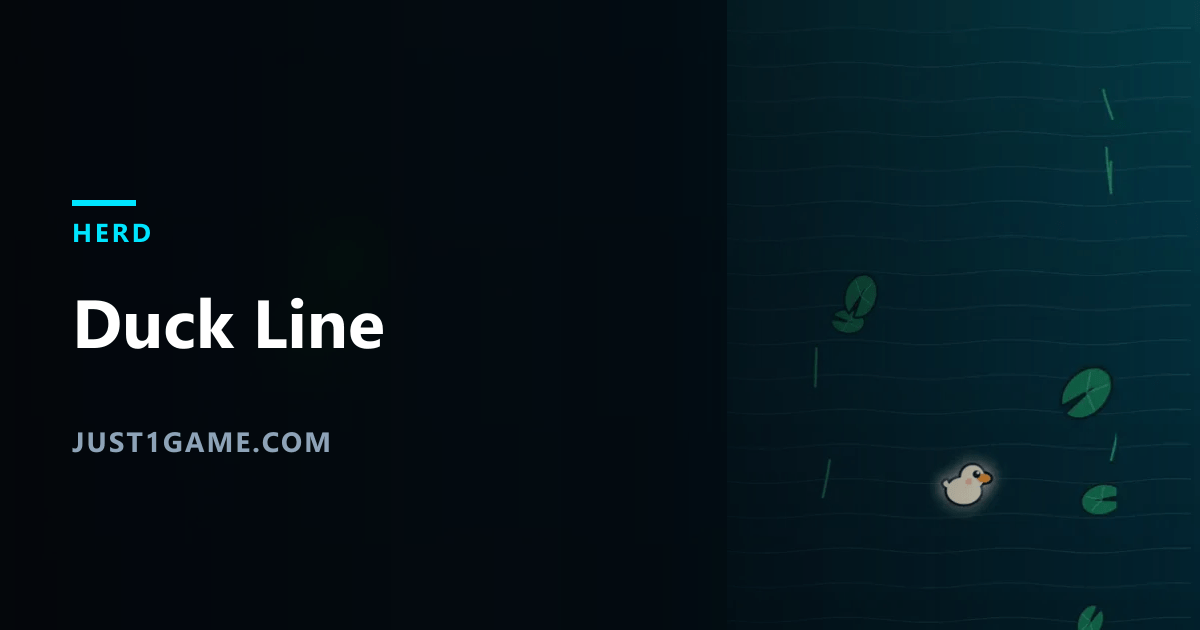
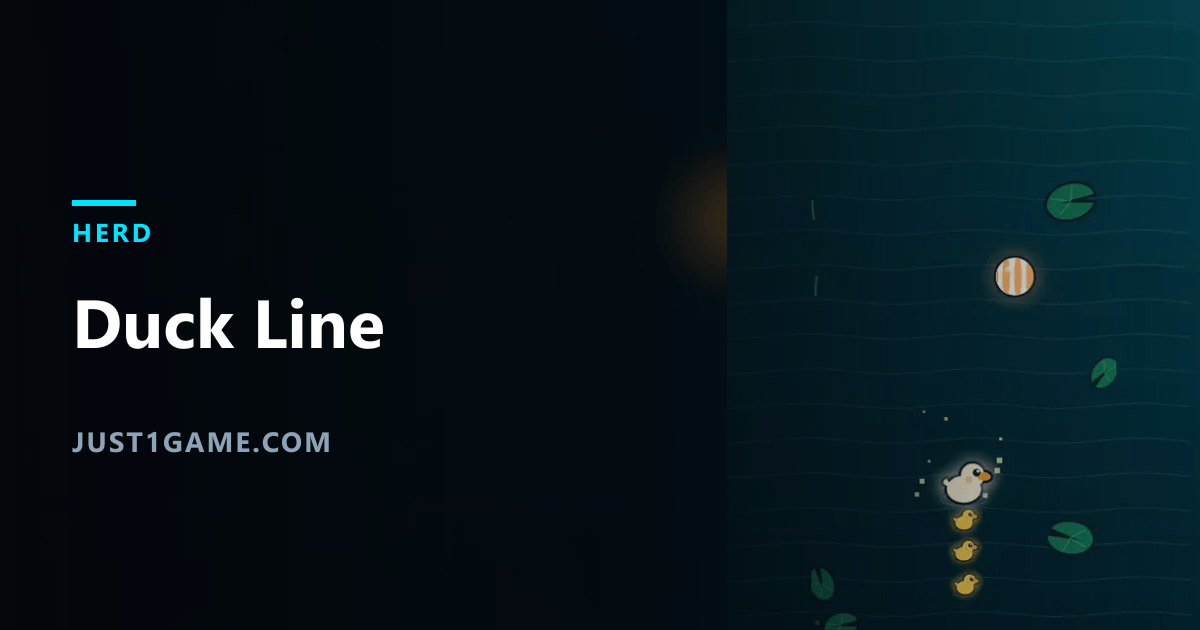
fix: let a game say when its thumbnail is worth taking
The capture picks the earliest frame that differs enough from the title, which
keeps game-over out of the shot. For Duck Line that rule fired at 900ms, when
the water is already moving but the mother is still alone — so the card and
the thumbnail showed a game with no line in it, which is the entire game.

Waiting longer is not a general answer either: pulse-lock captured at 1800ms
put a red MISSED across the cover, because failure feedback piles up when
nobody is playing. The right moment is a property of the game, so games.json
carries captureFromMs and the earliest-change rule still runs after it.

Duck Line now captures at 7000ms and the card shows three ducklings in tow.

diff --git a/tools/shoot.js b/tools/shoot.js
@@ -20,16 +20,29 @@ const HEIGHT = 640;
 // 600x800 = 0.75다. 밴드 양옆은 게임 자신의 풀블리드 배경이 채우므로 합성이 필요 없다.
 const VIEWPORT = { width: 600, height: 838 };
 
-// 캡처 시점 후보(시작 트리거 이후 경과 시간).
-// 이르면 타이틀, 늦으면 게임오버가 찍히므로 촘촘히 여러 장 확보한다.
+/* 캡처 시점 후보(시작 트리거 이후 경과 시간).
+   이르면 타이틀, 늦으면 게임오버가 찍히므로 촘촘히 여러 장 확보하고,
+   '타이틀과 처음으로 충분히 달라진' 가장 이른 프레임을 고른다.
+
+   ⚠ 그 규칙이 어떤 게임에는 너무 이르다. duck-line은 900ms에 이미 물이 흐르므로
+   조건을 통과하지만, 그 순간 엄마는 혼자다 — 이 게임의 전부인 '줄'이 없는 그림이
+   OG 카드와 썸네일에 그대로 박혔다. 반대로 pulse-lock은 1800ms에 찍었더니 빨간
+   MISSED가 화면을 덮었다(아무도 조작하지 않으면 실패 피드백이 쌓인다).
+
+   그래서 시점을 게임이 스스로 밝히게 한다: games.json 의 captureFromMs 가 있으면
+   그 뒤부터 표본을 뜬다. '가장 이른 변화 프레임' 규칙은 그대로라 게임오버는 여전히 피한다. */
 const CAPTURE_AT_MS = [900, 1500, 2200, 3000, 3800];
+function captureTimes(fromMs) {
+  if (!fromMs) return CAPTURE_AT_MS;
+  return CAPTURE_AT_MS.map((t, i) => fromMs + i * 700);
+}
 
 // 타이틀 대비 이 정도는 달라져야 "게임이 시작됐다"로 본다 (0~255 평균 절대차).
 const CHANGED_THRESHOLD = 12;
 
 // 타이틀 화면을 기준선으로 삼고, 거기서 처음으로 충분히 달라진 프레임을 고른다.
 // 게임오버는 플레이보다 뒤에 오므로 "가장 이른 변화 프레임"을 잡으면 자연히 배제된다.
-async function pickPlayFrame(page, target, baseline) {
+async function pickPlayFrame(page, target, baseline, fromMs) {
   let fallback = null;
   let fallbackDiff = -1;
   let prev = 0;
@@ -44,7 +57,7 @@ async function pickPlayFrame(page, target, baseline) {
     async () => { await clickStartButton(page); }
   ];
 
-  for (const at of CAPTURE_AT_MS) {
+  for (const at of captureTimes(fromMs)) {
     await page.waitForTimeout(at - prev);
     prev = at;
     const raw = await target.screenshot().catch(() => null);
@@ -59,7 +72,7 @@ async function pickPlayFrame(page, target, baseline) {
   return fallback ? { raw: fallback, diff: fallbackDiff, at: null } : null;
 }
 
-async function shoot(browser, slug) {
+async function shoot(browser, slug, fromMs) {
   const page = await browser.newPage({ viewport: VIEWPORT });
   const file = path.resolve(gamePath(slug));
   await page.goto(pathToFileURL(file).href, { waitUntil: 'load' });
@@ -71,7 +84,7 @@ async function shoot(browser, slug) {
   const baseline = await target.screenshot();
   await triggerStart(page);
 
-  const picked = await pickPlayFrame(page, target, baseline);
+  const picked = await pickPlayFrame(page, target, baseline, fromMs);
   if (!picked) throw new Error('no frame captured');
 
   const out = thumbPath(slug);
@@ -93,7 +106,8 @@ const slugs = process.argv.slice(2).length
 const browser = await chromium.launch();
 for (const slug of slugs) {
   try {
-    const { out, diff, at } = await shoot(browser, slug);
+    const entry = all.find(g => g.slug === slug);
+    const { out, diff, at } = await shoot(browser, slug, entry && entry.captureFromMs);
     const when = at === null ? 'NO CLEAR START (fallback frame)' : `t=${at}ms`;
     console.log(`ok   ${slug} -> ${out}  [diff ${diff}, ${when}]`);
   } catch (err) {
